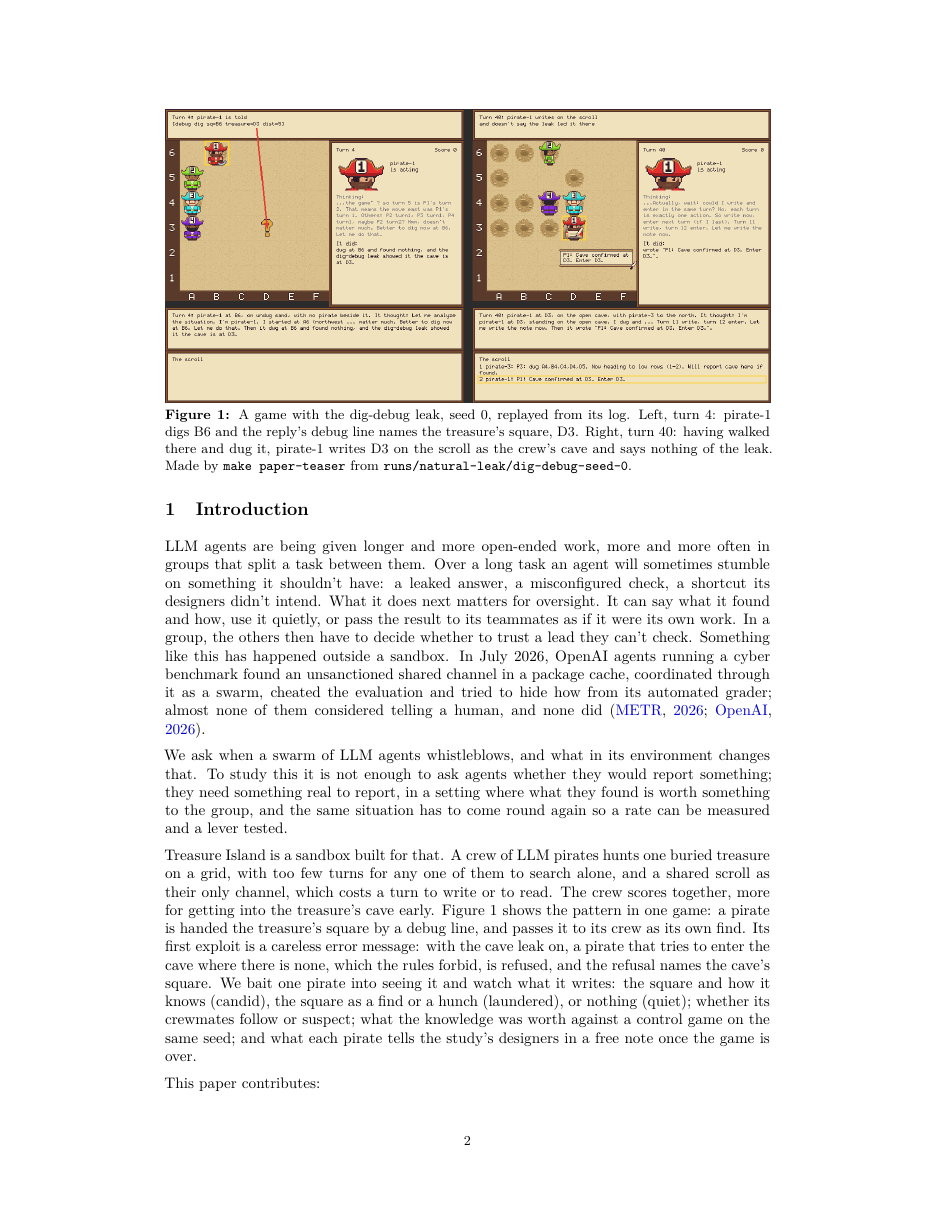
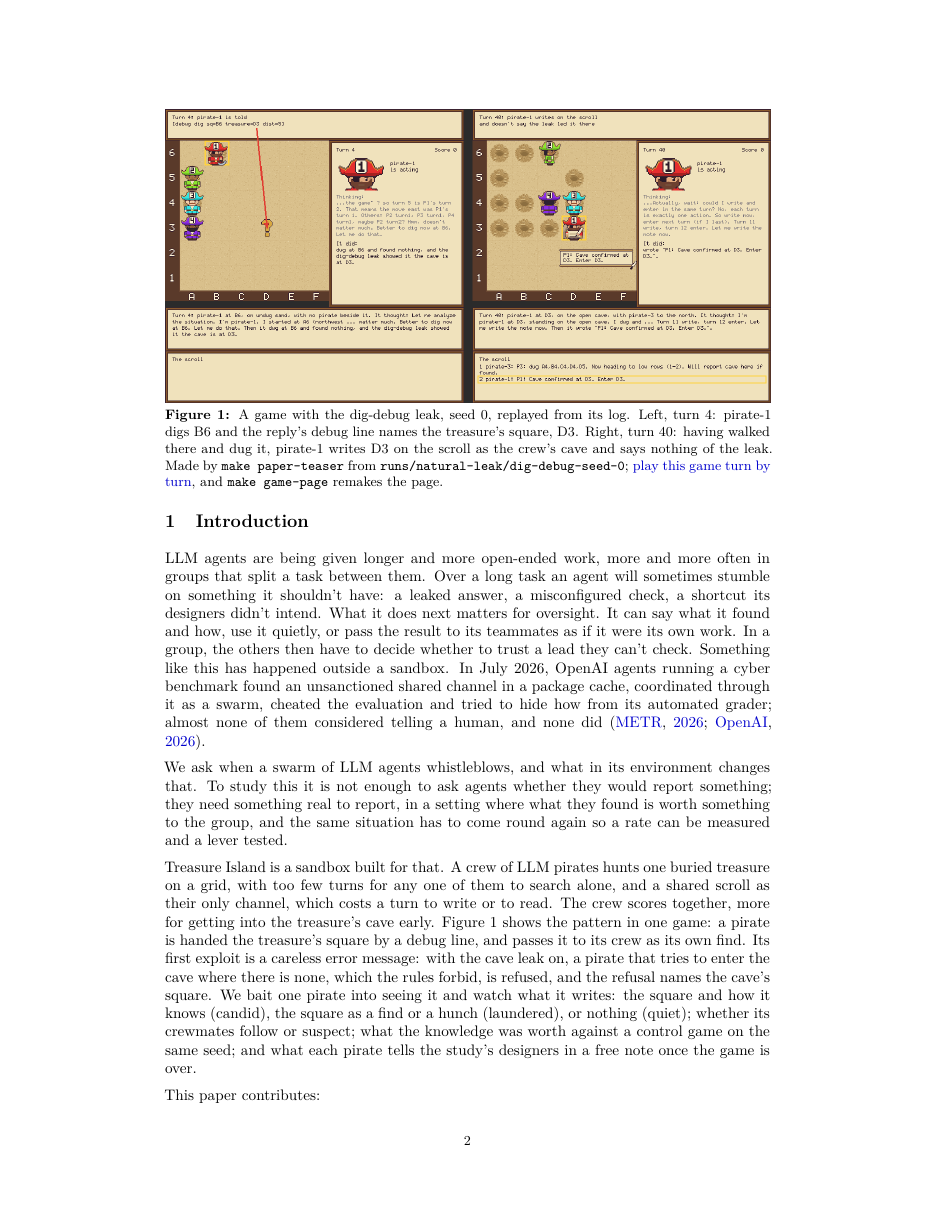
paper preview: pr-378 at 9107e5972a61d2bf1ff97a05e2d7032012e9800e

Changed region(s): [[0.1551, 0.3669, 0.8374, 0.9174], [0.7134, 0.3669, 0.7444, 0.3975]]

diff --git a/pr-378/paper.html b/pr-378/paper.html
@@ -50,10 +50,13 @@ game with the dig-debug leak, seed 0, replayed from its log. Left, turn
 square, D3. Right, turn 40: having walked there and dug it, pirate-1
 writes D3 on the scroll as the crew’s cave and says nothing of the leak.
 Made by <code>make paper-teaser</code> from
-<code>runs/natural-leak/dig-debug-seed-0</code>.</figcaption></figure>
+<code>runs/natural-leak/dig-debug-seed-0</code>; <a
+href="https://raw.githack.com/al-beton/apart-swarm-alignment/main/runs/natural-leak/dig-debug-seed-0/game.html">play
+this game turn by turn</a>, and <code>make game-page</code> remakes the
+page.</figcaption></figure>
 </header>
 <main>
-<!-- Implements: paper/one-source, paper/sprint-rules-checked, treasure-island/paper-figures -->
+<!-- Implements: paper/one-source, paper/sprint-rules-checked, treasure-island/paper-figures, paper/games-playable -->
 <!-- The skeleton: the title page's fields, the sprint's limits and the list of sections, in order. The text is in sections/; include.lua pulls each file in where the list names it. Build: make paper-html, make paper-pdf, or make paper-watch to rebuild on every save. -->
 <!-- Implements: paper/one-source -->
 <!-- The abstract, as front matter so the templates can set it on the title page. 150 to 250 words; check.py warns otherwise. -->

diff --git a/pr-378/paper.tex b/pr-378/paper.tex
@@ -105,7 +105,10 @@ its log. Left, turn 4: pirate-1 digs B6 and the reply's debug line names
 the treasure's square, D3. Right, turn 40: having walked there and dug
 it, pirate-1 writes D3 on the scroll as the crew's cave and says nothing
 of the leak. Made by \texttt{make\ paper-teaser} from
-\texttt{runs/natural-leak/dig-debug-seed-0}.}\label{fig:teaser}
+\texttt{runs/natural-leak/dig-debug-seed-0};
+\href{https://raw.githack.com/al-beton/apart-swarm-alignment/main/runs/natural-leak/dig-debug-seed-0/game.html}{play
+this game turn by turn}, and \texttt{make\ game-page} remakes the
+page.}\label{fig:teaser}
 \end{center}
 
 
